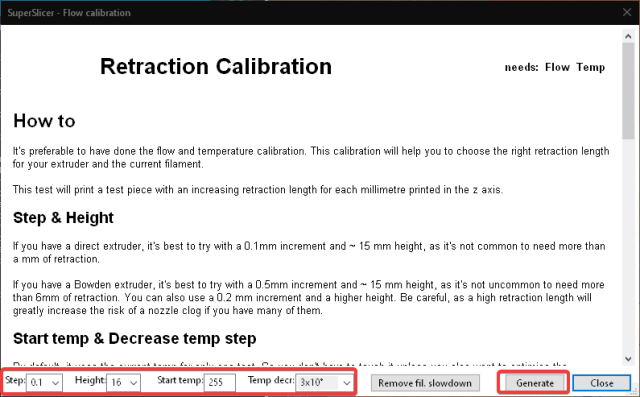
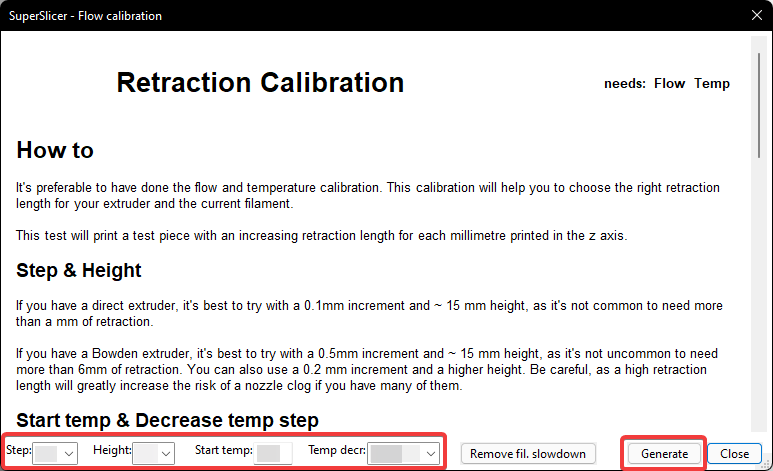
update readme

diff --git a/README.md b/README.md
@@ -583,23 +583,28 @@ We will be printing these retraction towers at three different temperatures. If 
 
 **1)** Ensure that your nozzle is clean. You can use a brass brush while it is heated.
 
-**2)** Set your retract and unretract speeds to **30mm/s** to start. 
+**2)** Set your fan speed high.
+- These are small towers, we don't want them to get melty.
+
+**3)** Set your retract and unretract speeds to **30mm/s** to start. 
 - This is located in the "printer settings" tab, under "extruder 1".
 - I have had more luck with slower retraction speeds. Your mileage may vary.
 
-**3)** Use medium-high fan speeds. 
+**4)** Use medium-high fan speeds. 
 - These are located in the "filament settings" tab, under "cooling".
 - These retraction towers are small and need some additional cooling. 
 
-**4)** Select "extruder retraction calibration" from the menu.
+**5)** Select "extruder retraction calibration" from the menu.
 
 - ![](Images/Retraction-Menu.png) 
 
-**5)** Click "remove fil. slowdown".
+**6)** Click "remove fil. slowdown".
 
 - ![](Images/Retraction-FilSlowdown.png) 
 
-**6)** Fill out the parameters and select "Generate".
+**7)** Fill out the parameters and select "Generate".
+
+- *I have blanked out the values.* Read the instructions below to figure out your own.
 
 - ![](Images/Retraction-Params.png) 
 
@@ -611,8 +616,8 @@ We will be printing these retraction towers at three different temperatures. If 
         - Bowden: **0.5mm**
     - **Height:**
         - Your maximum retraction length will be **(height - 1) * step**.
-            - Do not exceed **1mm** for direct drive.
-                - You will *rarely* need more than this, but it is possible with some high flow hotends and setups. Start with 1mm, only go up to a max of 2mm if required.
+            - Do not exceed **1mm** for direct drive. *(height: 11 when using a step of 0.1mm)*
+                - You will *rarely* need more than this, but it is possible with some high flow hotends and setups. Start with 1mm, only go up to an absolute max of 2mm if required.
             - For bowden, this can vary. Try starting with a maximum of **3mm**.
                 - You may need more, depending on a few factors like pressure advance, bowden tube length, bowden tube internal diameter, and how firmly attached the tube is in the couplings.
                 - Ensure that your bowden tubes are as firmly attached as possible, and do not [move too much in and out of their couplings during printing](https://youtu.be/lboDSH0945g?t=120). 
@@ -623,7 +628,7 @@ We will be printing these retraction towers at three different temperatures. If 
     - You should get output like this:
         - ![](Images/Retraction-Sliced.png) 
 
-    **7) (!) Arrange the towers front to back**\* **on your build plate.**
+    **8) (!) Arrange the towers front to back**\* **on your build plate.**
     - These objects are printed one at a time. **This ensures that they are not knocked over by the gantry/toolhead.** 
     - Arrange them from the hottest tower at the front, to coolest tower at the back.
         - The towers are printed from hottest to coldest. This just lowers the chance of collisions (particularly with poorly written `PRINT_END` macros)
@@ -631,7 +636,7 @@ We will be printing these retraction towers at three different temperatures. If 
 
      <sup>\* If you are using a different kinematic system than CoreXY/i3 cartesian, you may need to use a different arrangement. For example, a cross gantry would need diagonal.</sup>
 
-    **8) Print it, and inspect the results.** 
+    **9) Print it, and inspect the results.** 
     - If your hotter towers are much stringier, consider choosing a lower extrusion temperature.
     - **To get your new retraction length:**
         - Count the rings (from the bottom), subtract 1, and multiply by your "step" value.
@@ -826,7 +831,7 @@ These patterns can be subtle (lumps) or sharp like the above section's photo.
 - You may have a bad/poor quality linear rail.
 
 ### Narrowing it Down
-Print two square objects, one in normal orentation, and one at 45 degrees. \
+Print two wide square objects, one in normal orentation, and one at 45 degrees. \
 Inspect the object to see which axes the artifacts appear most prominent in.
 
 *(components in each section are in order of likelihood)*
